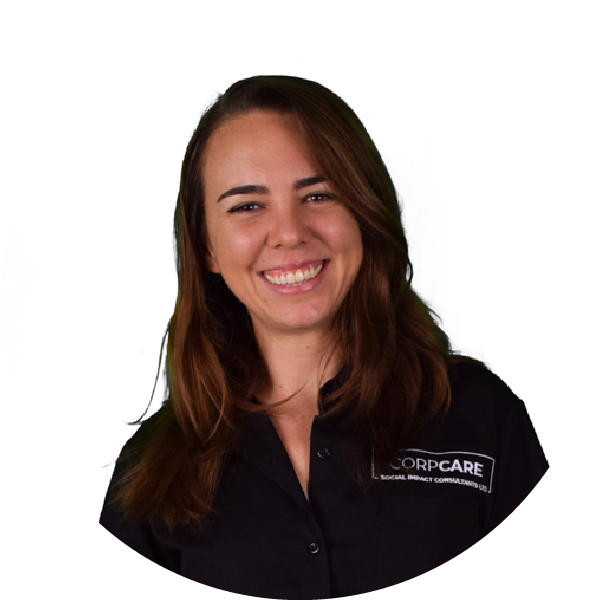
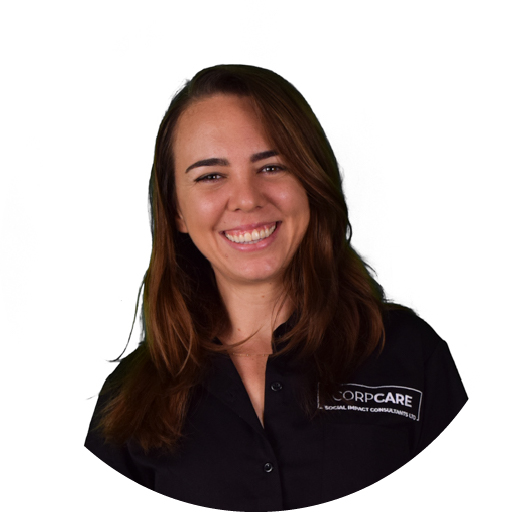
updates
typos and headshots

diff --git a/src/templates/index-page.js b/src/templates/index-page.js
@@ -17,7 +17,7 @@ import jomarie from '../img/jomarie.jpg'
 import kemesha from '../img/kemesha.jpg'
 import dominic from '../img/dominic.jpg'
 import aki from '../img/aki.png'
-import leah from '../img/leah.png'
+import leah from '../img/leah.jpg'
 import alex from '../img/alex.jpg'
 
 export const IndexPageTemplate = ({
@@ -153,13 +153,13 @@ export const IndexPageTemplate = ({
                             <strong>Jomarie Malcolm</strong><br />
                             Communications Director
                             <p>
-                            Our Communications Director, Jomarie Malcolm, is both a branding expert with over 10 years of experience, as well as, an attorney-at-law. Jomarie serves as the Founder and CEO of Malcolm Mavericks, a brand strategy and PR firm dedicated to effective communication and authentic branding...
+                            Our Communications Director, Jomarie Malcolm, is both a branding expert, with over 10 years of experience, as well as an attorney-at-law. Jomarie serves as the Founder and CEO of Malcolm Mavericks, a brand strategy and PR firm dedicated to effective communication and authentic branding...
                             </p>
                             <Who
                               image={jomarie}
                               title="Jomarie Malcolm"
                               jobTitle="Communications Director"
-                              body="Our Communications Director, Jomarie Malcolm, is both a branding expert with over 10 years of experience, as well as, an attorney-at-law. Jomarie serves as the Founder and CEO of Malcolm Mavericks, a brand strategy and PR firm dedicated to effective communication and authentic branding. Malcolm Mavericks has partnered with CorpCare to create a seamless experience in executing CSR activities and garnering the appropriate brand equity associated with those activities. Jomarie is a motivational speaker, branding educator and business development mentor. She is a member of the World Economic Forum Global Shapers Kingston Hub, President of Campion College Alumni Association and an active member of her community. Jomarie believes that CSR is a core business priority, in addition to being a tool through which companies communicate their values to staff and the wider communities they serve. "
+                              body="Our Communications Director, Jomarie Malcolm, is both a branding expert, with over 10 years of experience, as well as an attorney-at-law. Jomarie serves as the Founder and CEO of Malcolm Mavericks, a brand strategy and PR firm dedicated to effective communication and authentic branding. Malcolm Mavericks has partnered with CorpCare to create a seamless experience in executing CSR activities and garnering the appropriate brand equity associated with those activities. Jomarie is a motivational speaker, branding educator and business development mentor. She is a member of the World Economic Forum Global Shapers Kingston Hub, President of Campion College Alumni Association and an active member of her community. Jomarie believes that CSR is a core business priority in addition to being a tool through which companies communicate their values to staff and the wider communities they serve. "
                             />
                           </div>
                         </div>
@@ -180,7 +180,7 @@ export const IndexPageTemplate = ({
                             Strategy and Monitoring and Evaluation Expert
                             <p>
                             Our Strategy and Monitoring and Evaluation Expert,
-                              Kemesha Swaby, holds a MA in Social Policy, with
+                              Kemesha Swaby, holds a MBA in Social Policy, with
                               expertise in Comparative Analysis, Global Policy
                               and Impact Assessment. Kemesha serves as a
                               Lecturer of International Relations at the
@@ -286,7 +286,7 @@ export const IndexPageTemplate = ({
                               image={alex}
                               title="Alexandra Shaw"
                               jobTitle="Project Manager & Strategy Consultant"
-                              body="Our Project Manager & Strategy Consultant is a dynamic young professional with a multidisciplinary background. Alex holds a Bachelor’s Degree in Anthropology and Humanities and a Master’s Degree in International Business. Alex works on several parts of the business, through project management and strategy consultation. She is also specifically equipped to advise on childhood education and has a passion for social work. She’s lived all of the world teaching in Peru, India and Jamaica. Through her global experiences, she’s especially focused on building a world in which everyone has equal access to opportunities. "
+                              body="Our Project Manager & Strategy Consultant is a dynamic young professional with a multidisciplinary background. Alex holds a Bachelor’s Degree in Anthropology and Humanities and a Master’s Degree in International Business. Alex works on several parts of the business, through project management and strategy consultation. She is also specifically equipped to advise on childhood education and has a passion for social work. She’s lived all over the world teaching in Peru, India and Jamaica. Through her global experiences, she’s especially focused on building a world in which everyone has equal access to opportunities. "
                             />
                           </div>
                         </div>
@@ -350,7 +350,7 @@ export const IndexPageTemplate = ({
                     </h3>
                     <p>{description}</p>
                     <p>
-                      The CorpCare CSR model follows the key tenants of a Triple
+                      The CorpCare CSR model follows the key tenets of a Triple
                       Bottom Line (TBL or 3BL) business or accounting framework.
                       In fact, the TBL can be used to better understand a
                       company’s commitment to CSR activities.{' '}
@@ -386,7 +386,7 @@ export const IndexPageTemplate = ({
                     <h4>The Planet</h4>
                     <p>
                       A measure of success that analyses environmental and
-                      community impact overtime.
+                      community impact over time.
                     </p>
                   </div>
                 </div>
@@ -466,9 +466,9 @@ export const IndexPageTemplate = ({
                   The work we do at CorpCare is founded on strong partnerships
                   and the belief that when we work together, we can deliver the
                   most innovative, creative and impactful services. That’s why
-                  we have teamed up with Khord.Co a software and product
-                  development company and Malcolm Mavericks a communications and
-                  branding firm to deliver the best results possible for our
+                  we have teamed up with Khord.Co, a software and product
+                  development company, and Malcolm Mavericks, a communications and
+                  branding firm, to deliver the best results possible for our
                   clients. Through these partnerships we’re fully equipped to
                   deliver: High level CSR strategies, Project Management
                   expertise, PR and Communications tools to increase brand
@@ -485,7 +485,7 @@ export const IndexPageTemplate = ({
                   private sector organisations in Jamaica better understand
                   their role in creating safe and discrimination-free work
                   environments. We know that our work is dependent on the work
-                  of others, that our communities need us to focus less on
+                  of others; that our communities need us to focus less on
                   competition and more on connection in order to create a more
                   just and equitable world.
                 </p>
